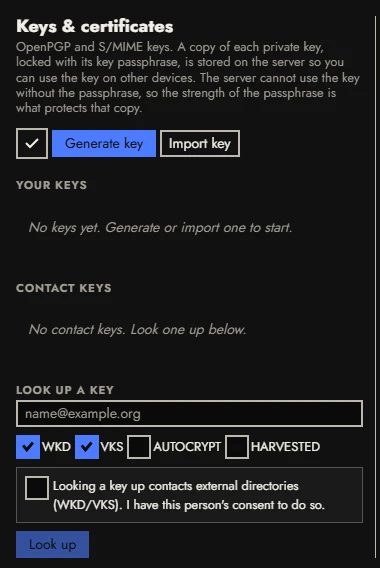
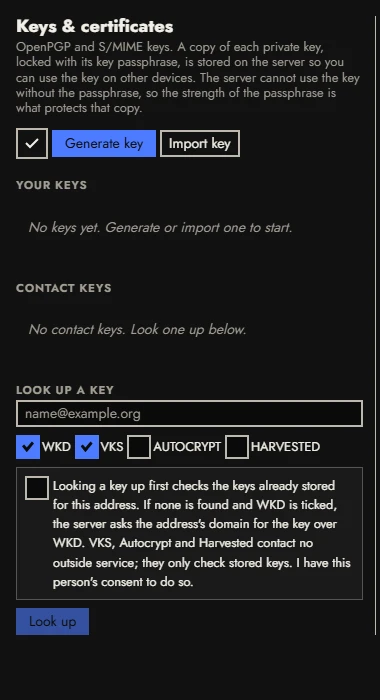
docs(security): fact-check fixes: engine-mode passkey floor, socks5h vs proxy intro, key lookup sources, image alts, keys screenshot

diff --git a/docs/security/passkeys.md b/docs/security/passkeys.md
@@ -9,7 +9,7 @@ and what it does not.
 Users add and remove passkeys in **Settings** → **Security centre** → **Sign-in &
 passkeys** → **Passkeys** (**Add a passkey**).
 
-![The Passkeys section of the Security centre: the authenticator requirements, a passkey name field and Add a passkey.](/screenshots/security/passkeys-user-list.webp){.mw-crop}
+![The Passkeys section of the Security centre with no passkey added yet: the engine-mode requirements (PIN, fingerprint or face; stored on the authenticator), a passkey name field and Add a passkey.](/screenshots/security/passkeys-user-list.webp){.mw-crop}
 
 What a passkey does depends on how the server reaches mail:
 
@@ -30,6 +30,12 @@ domain, or per account):
 | [`twofa.passkeyAttachment`](/admin/settings#twofa.passkeyattachment) | `any` | `platform` (stored on the device) or `cross-platform` (security key or phone). |
 | [`twofa.passkeyLegacy`](/admin/settings#twofa.passkeylegacy) | `allow` | Whether passkeys registered before a stricter policy keep working (`refuse` stops them). |
 
+In engine mode every passkey can also be used for passwordless sign-in, so enrolment
+always requires user verification and a discoverable credential, whatever
+`twofa.passkeyUserVerification` and `twofa.passkeyResidentKey` say. The Security centre
+lists those requirements under "Your organization accepts only passkeys that:", as in
+the image above.
+
 ::: warning Attachment is reported by the browser
 Mailwoman requests `none` attestation, so the authenticator type that
 `twofa.passkeyAttachment` checks is what the browser reports. It keeps honest users
@@ -48,7 +54,7 @@ fresh confirmation of the administrator's identity.
 - Enrolment and sign-in always require user verification and a discoverable
   credential.
 - Once an administrator has a passkey, a password alone does not sign them in
-  or confirms a sensitive action. A user-verified passkey can do both on its own;
+  or confirm a sensitive action. A user-verified passkey can do both on its own;
   an authenticator app code remains an alternative second factor.
 - Recovery codes (shared with the authenticator app, see
   [Administrator authenticator app](./admin-totp.md)) work once each, together

diff --git a/docs/security/egress.md b/docs/security/egress.md
@@ -107,9 +107,12 @@ the egress configuration refuses every class request rather than sending it dire
 
 How the address policy is kept through a proxy:
 
-- **The proxy gets an IP address, not a name.** The server resolves the name and
-  applies the address policy as for a direct request, then asks the proxy to connect
-  to that address. The SOCKS5 encoder has no code path for a domain-name address type.
+- **On `http` and `socks5` routes the proxy gets an IP address, not a name.** The
+  server resolves the name and applies the address policy as for a direct request,
+  then asks the proxy to connect to that address. Only an accepted `socks5h` route
+  sends a name (see [Remote DNS](#remote-dns-socks5h) below). The console's intro on
+  this tab says "the proxy is never asked to resolve a name"; that is true of every
+  route except `socks5h`.
 - **TLS runs end to end to the origin.** The tunnel carries TLS with the origin's name
   (SNI), verified against the origin's certificate. A proxy that presents its own
   certificate fails verification.
@@ -181,7 +184,7 @@ The reader's remote-content mode is
 | `proxy` | Remote images load through the server for every message, without asking. |
 | `direct` | The browser loads images straight from the sender's servers. Available only when the administrator turns on [`privacy.allowDirect`](/admin/settings#privacy.allowdirect) and the account has [`cap.remote_content.direct`](/admin/settings#cap.remote_content.direct) (both default off); otherwise it behaves as `ask`. |
 
-![The remote content notice above a newsletter, with Show images and More image options.](/screenshots/security/remote-images-banner.webp){.mw-crop}
+![The remote content notice of an opened newsletter: Remote images blocked, 1 tracker removed, with Show images and More image options.](/screenshots/security/remote-images-banner.webp){.mw-crop}
 
 **Through the server** means the reader's browser contacts only Mailwoman. The server
 fetches the image under the address policy above, checks the response type against

diff --git a/docs/security/crypto.md b/docs/security/crypto.md
@@ -33,7 +33,7 @@ When a message is OpenPGP-encrypted, the server returns the encrypted MIME as it
 Contact keys come from:
 
 - **Import key**: an armored OpenPGP key (**Armored (PGP)**) or a PKCS#12 file (**PKCS#12 (S/MIME)**);
-- **Look up a key**, which asks only after you tick **Consent to external lookup**. The server queries WKD; the key-server (VKS) option is offered but the server does not query key servers;
+- **Look up a key**, which runs only after you tick **Consent to external lookup**. It first checks the keys already stored for the address; if none is found and **WKD** is ticked, the server asks the address's domain over WKD. The **VKS**, **Autocrypt** and **Harvested** options contact no outside service; they only check stored keys;
 - S/MIME certificates from a configured LDAP directory;
 - automatic WKD lookups while composing and while decrypting (see below).
 

diff --git a/docs/security/admin-panel.md b/docs/security/admin-panel.md
@@ -212,7 +212,7 @@ the administrator's roles, the capability used, and redacted before and after
 values) and, where the writer knows it, the source address. It is shown under
 **Observability** → **Audit log** and can be exported.
 
-![The Audit log table with time, actor and actor kind, action and target for each entry, and the Export JSONL button.](/screenshots/security/admin-audit-log.webp){.mw-crop}
+![The Audit log table with actor and actor kind, action and target for each entry, and the Export JSONL button; the time column and an account id are greyed out in this image.](/screenshots/security/admin-audit-log.webp){.mw-crop}
 
 What protects the log, precisely:
 
